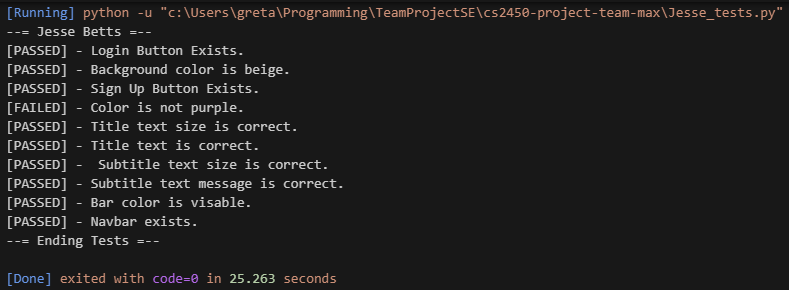
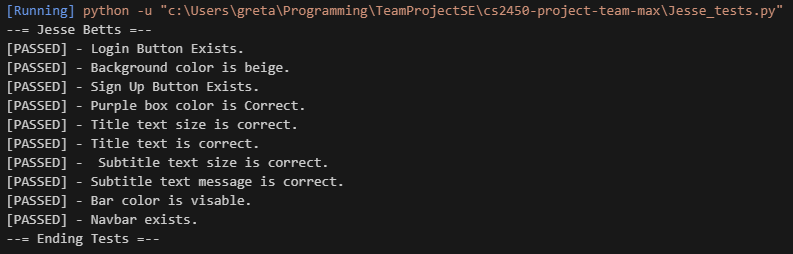
fixed my tests -Jesse

Changed region(s): [[0.0, 0.0, 1.0, 0.8819], [0.0, 0.9094, 0.4259, 0.9921]]

diff --git a/JesseTests/Jesse_tests.py b/JesseTests/Jesse_tests.py
@@ -38,7 +38,7 @@ try:
 
 #Test 4 purple box
     box_color = driver.find_element(By.CSS_SELECTOR, "div.card.card-body.bg-light") 
-    if box_color.value_of_css_property("background-color") == "#4F5B84": 
+    if box_color.value_of_css_property("background-color") != "#4F5B84": 
         print("[PASSED] - Purple box color is Correct.")
     else:
         print("[FAILED] - Color is not purple.")
